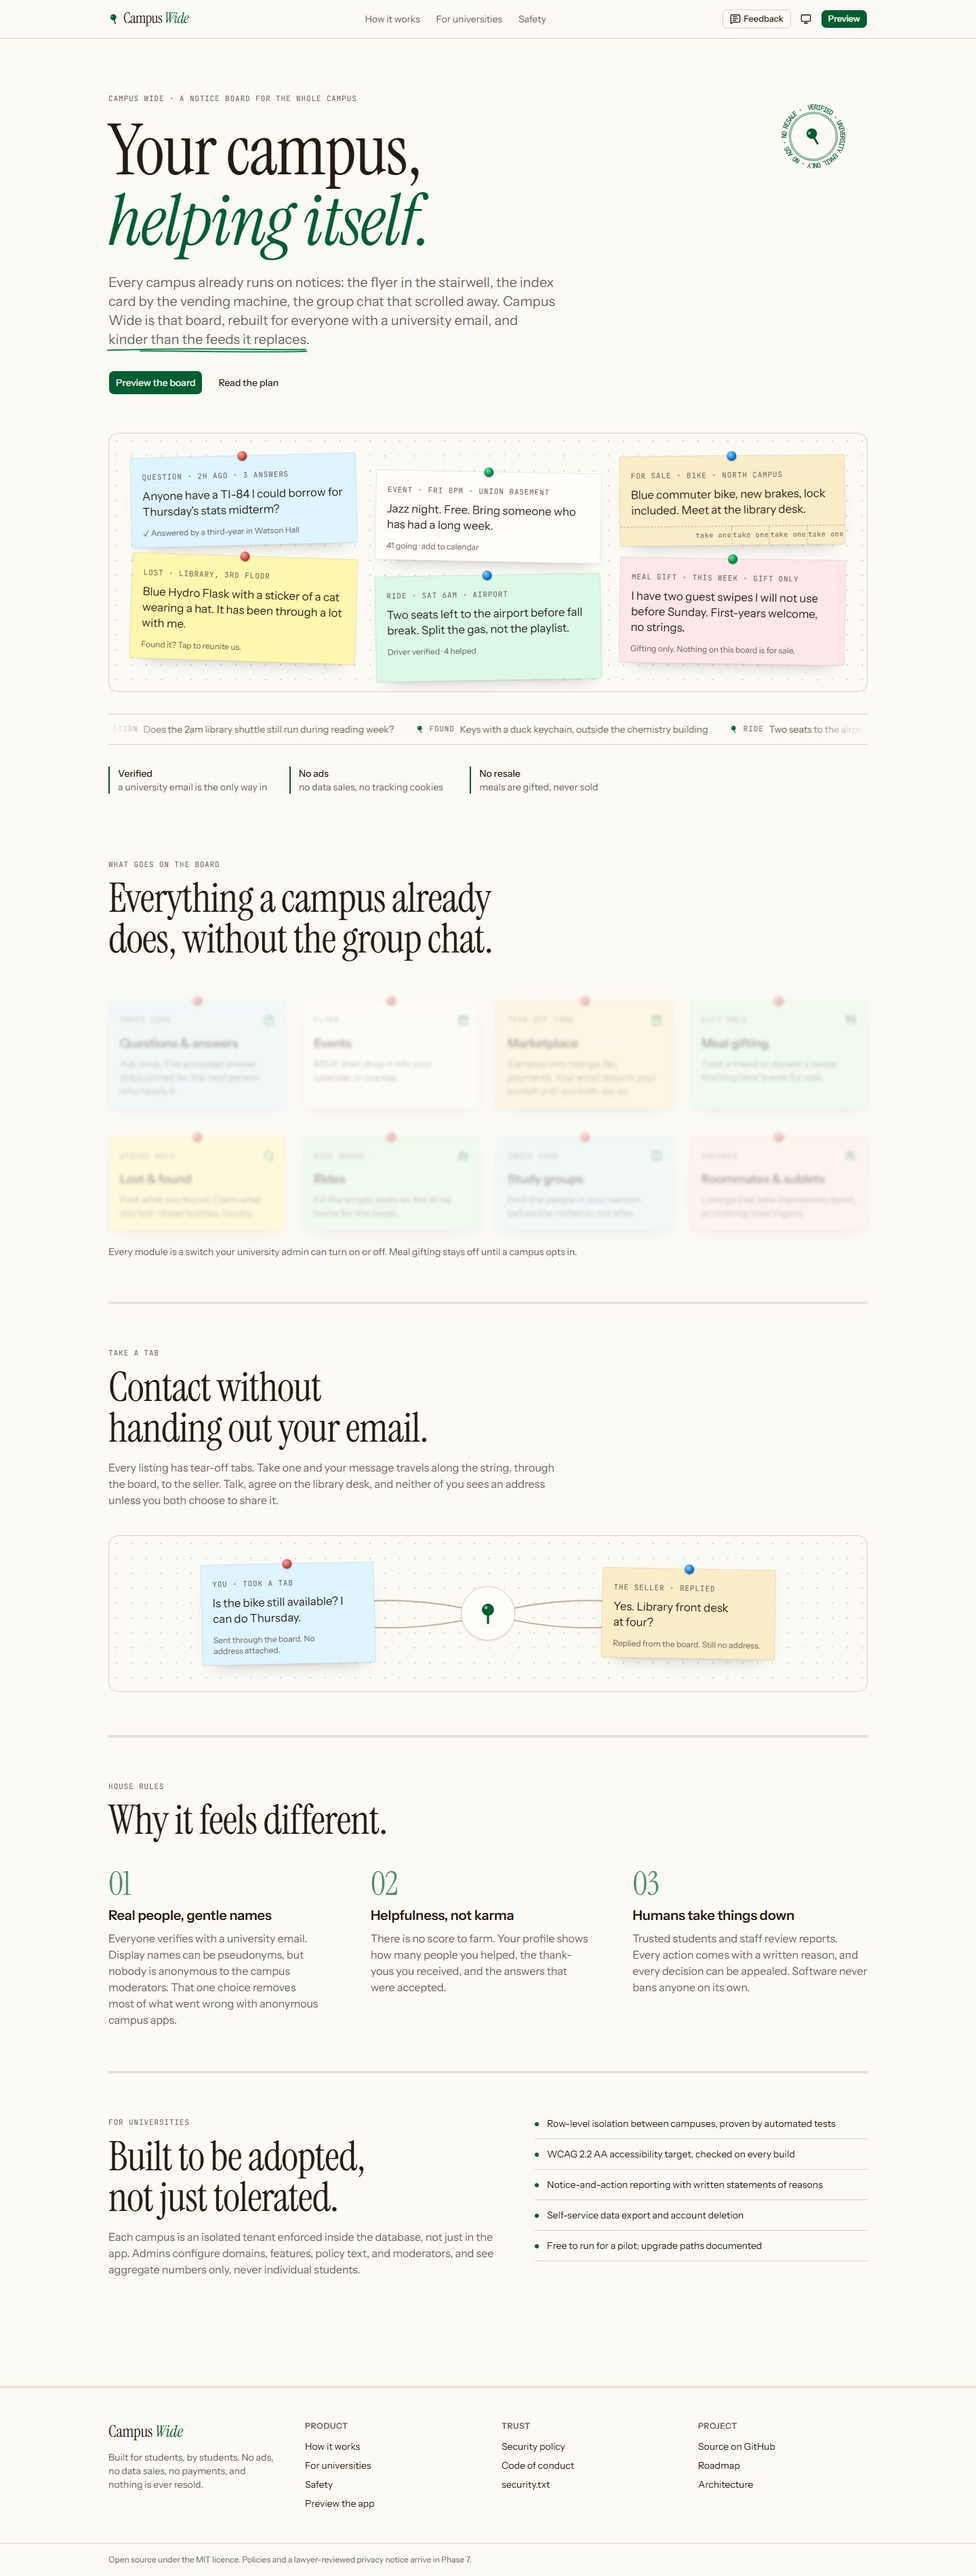
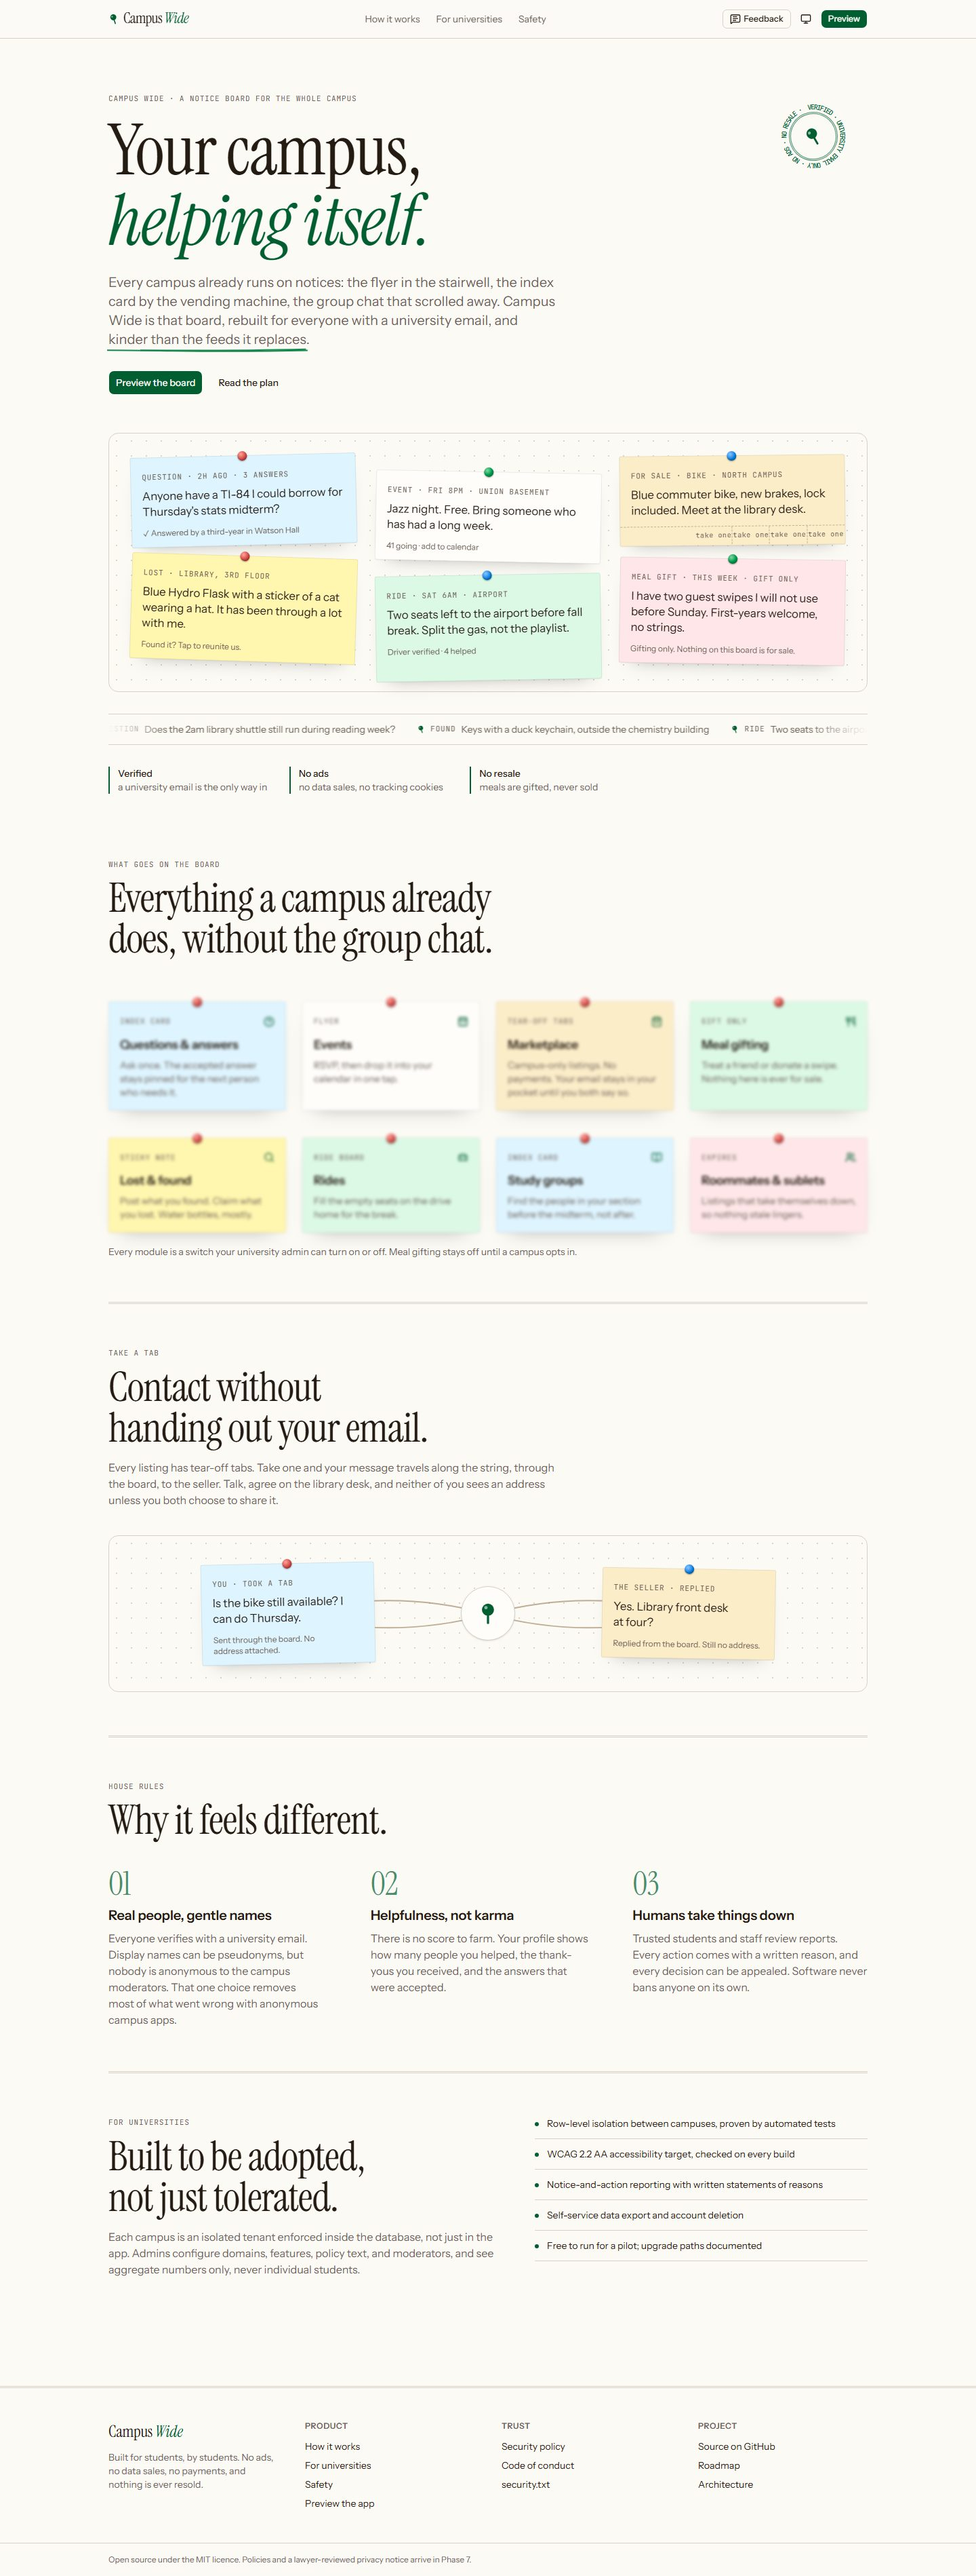
fix: animate only transform and blur in the scroll reveal
Partial opacity on offscreen notices failed axe color-contrast in CI.

Changed region(s): [[0.0938, 0.404, 0.4062, 0.4972], [0.5, 0.3729, 0.6875, 0.4972], [0.7188, 0.404, 0.8438, 0.4972]]

diff --git a/src/app/globals.css b/src/app/globals.css
@@ -282,16 +282,15 @@
 
 /* ---- Motion (CSS only; every rule degrades to "just visible") ---------------------------- */
 
-/* Scroll-driven reveal: a notice settles onto the board as it enters the viewport. It never starts
-   fully invisible, so print, find-in-page, full-page captures, and crawlers always see the content. */
+/* Scroll-driven reveal: a notice settles onto the board as it enters the viewport. Only position and
+   blur animate, never opacity: content stays fully visible for print, find-in-page, full-page captures,
+   crawlers, and contrast checks. */
 @keyframes reveal-up {
   from {
-    opacity: 0.35;
-    transform: translateY(12px);
+    transform: translateY(14px);
     filter: blur(2px);
   }
   to {
-    opacity: 1;
     transform: translateY(0);
     filter: blur(0);
   }
